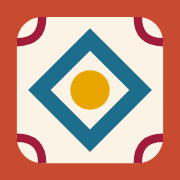
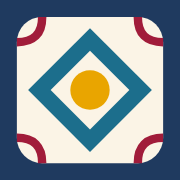
Couleur principale en bleu marine (interface, documents, icônes)
Claude-Session: https://claude.ai/code/session_013yAyFoXZiLDJ4cgVpBFAuu

diff --git a/src/views/Documents.tsx b/src/views/Documents.tsx
@@ -144,7 +144,7 @@ function FichePrep({ s, classe, creneau, seq }: { s: Seance; classe?: Classe; cr
           <h3 data-bloc style={{ fontSize: '12.5pt', borderBottom: '2px solid #1C6E8C', paddingBottom: 2, marginBottom: 4 }}>Déroulement</h3>
           {s.deroulement.map((e, i) => (
             <div key={e.id} data-bloc style={{ display: 'grid', gridTemplateColumns: '18mm 1fr', gap: 8, padding: '6px 0', borderBottom: '1px solid #E6D8BE' }}>
-              <div style={{ fontWeight: 700, color: '#B03F27' }}>{e.duree} min<div style={{ fontSize: '8.5pt', color: '#5E554C', fontWeight: 400 }}>{e.activites.join(' ')}</div></div>
+              <div style={{ fontWeight: 700, color: '#1F3A5F' }}>{e.duree} min<div style={{ fontSize: '8.5pt', color: '#5E554C', fontWeight: 400 }}>{e.activites.join(' ')}</div></div>
               <div><b>{i + 1}. {e.titre}</b><Lignes texte={e.contenu} /></div>
             </div>
           ))}
@@ -186,7 +186,7 @@ function TraceEcrite({ s }: { s: Seance }) {
   // Les blocs séparés par une ligne vide deviennent des encadrés.
   const blocs: string[][] = [[]]
   for (const l of lignes) l.trim() ? blocs[blocs.length - 1].push(l) : blocs[blocs.length - 1].length && blocs.push([])
-  const couleurs = ['#1C6E8C', '#B03F27', '#A11C3A', '#D98A2B']
+  const couleurs = ['#1C6E8C', '#1F3A5F', '#A11C3A', '#D98A2B']
   return (
     <div>
       <EnteteEleve titre="Lección" s={s} />
@@ -235,11 +235,11 @@ function FicheExercices({ s, corrige }: { s: Seance; corrige?: boolean }) {
               {items.map((it, j) => (
                 <li key={j} style={{ padding: '5px 0', borderBottom: corrige ? undefined : '1px dotted #C7B9A6' }}>
                   {it}
-                  {corrige ? <b style={{ color: '#B03F27' }}> → {rep[j] ?? ''}</b> : <span style={{ display: 'block', height: 18 }} />}
+                  {corrige ? <b style={{ color: '#1F3A5F' }}> → {rep[j] ?? ''}</b> : <span style={{ display: 'block', height: 18 }} />}
                 </li>
               ))}
             </ol>
-            {corrige && rep.length > items.length && <p style={{ color: '#B03F27' }}>{rep.slice(items.length).join(' ')}</p>}
+            {corrige && rep.length > items.length && <p style={{ color: '#1F3A5F' }}>{rep.slice(items.length).join(' ')}</p>}
           </section>
         )
       })}

diff --git a/index.html b/index.html
@@ -3,7 +3,7 @@
   <head>
     <meta charset="UTF-8" />
     <meta name="viewport" content="width=device-width, initial-scale=1, viewport-fit=cover" />
-    <meta name="theme-color" content="#C84B31" media="(prefers-color-scheme: light)" />
+    <meta name="theme-color" content="#1F3A5F" media="(prefers-color-scheme: light)" />
     <meta name="theme-color" content="#1E1A17" media="(prefers-color-scheme: dark)" />
     <meta name="robots" content="noindex, nofollow" />
     <meta name="apple-mobile-web-app-capable" content="yes" />

diff --git a/src/index.css b/src/index.css
@@ -15,7 +15,7 @@
   --muted: #5e554c;
   --line: #e6d8be;
   --teja: #c84b31; /* terracotta : aplats décoratifs */
-  --primary: #b03f27; /* teja foncée : textes & boutons (AA) */
+  --primary: #1f3a5f; /* bleu marine : textes & boutons (10,5:1) */
   --on-primary: #ffffff;
   --grenat: #a11c3a;
   --safran: #e9a500;
@@ -31,7 +31,7 @@
   --muted: #c7b9a6;
   --line: #4a3f36;
   --teja: #c84b31;
-  --primary: #e5775c;
+  --primary: #9db8e0;
   --on-primary: #1e1a17;
   --grenat: #e8778c;
   --safran: #f2c14e;

diff --git a/src/components/Logo.tsx b/src/components/Logo.tsx
@@ -2,7 +2,7 @@
 export default function Logo({ className = '' }: { className?: string }) {
   return (
     <svg viewBox="0 0 64 64" className={className} aria-hidden="true">
-      <rect width="64" height="64" rx="14" fill="#C84B31" />
+      <rect width="64" height="64" rx="14" fill="#1F3A5F" />
       <rect x="6" y="6" width="52" height="52" rx="9" fill="#FBF4E6" />
       <path d="M32 10 L54 32 L32 54 L10 32 Z" fill="#1C6E8C" />
       <path d="M32 18 L46 32 L32 46 L18 32 Z" fill="#FBF4E6" />

diff --git a/vite.config.ts b/vite.config.ts
@@ -23,7 +23,7 @@ export default defineConfig({
         display: 'standalone',
         orientation: 'any',
         background_color: '#FBF4E6',
-        theme_color: '#C84B31',
+        theme_color: '#1F3A5F',
         icons: [
           { src: 'icon-192.png', sizes: '192x192', type: 'image/png' },
           { src: 'icon-512.png', sizes: '512x512', type: 'image/png' },
